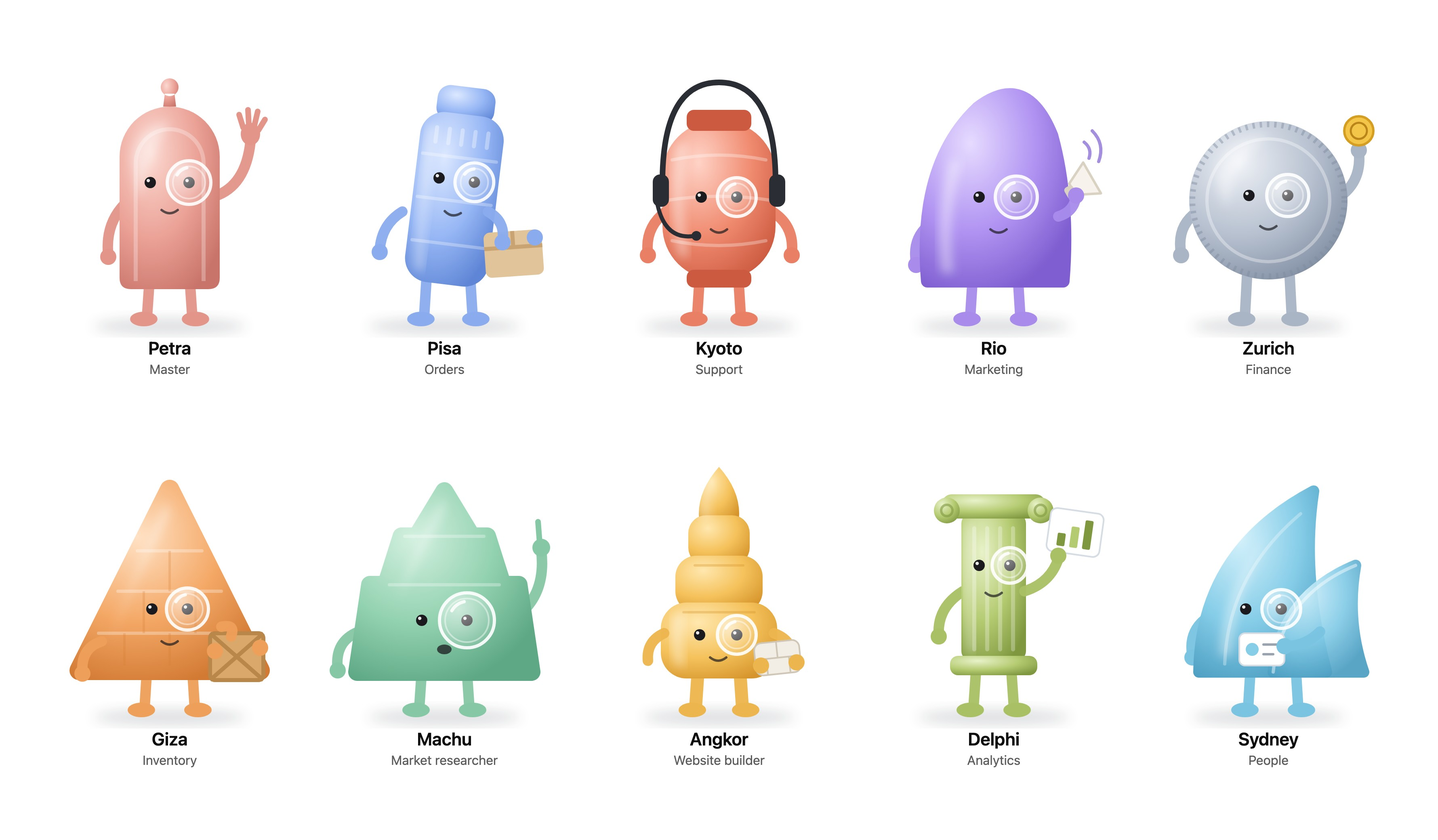
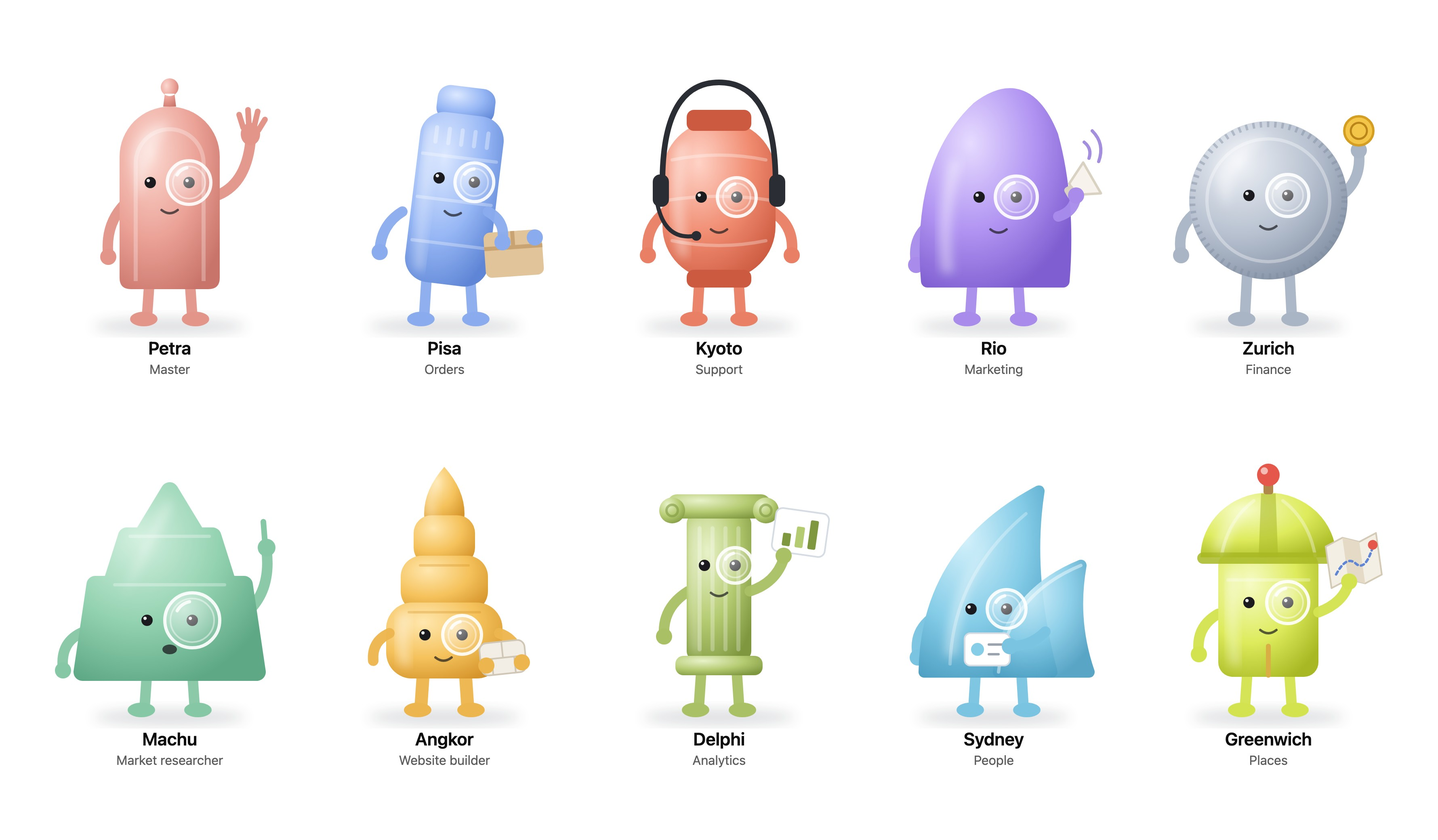
Add Greenwich, the places mascot
Greenwich keeps the business on Google Maps and the other maps.
Its body is the Royal Observatory dome with a red time ball. It holds
a folded map. The colour is meridian lime. The lineup now has six
columns for eleven mascots.

diff --git a/index.html b/index.html
@@ -127,7 +127,7 @@ th:first-child,td:first-child{padding-left:20px}th:last-child,td:last-child{padd
 <a class="brand" href="#overview">tensquads design system</a>
 <div class="search"><svg viewBox="0 0 18 18" width="18" height="18" aria-hidden="true" fill="none" stroke="currentColor" stroke-width="1.4" stroke-linecap="round" stroke-linejoin="round"><circle cx="8" cy="8" r="4.8"/><path d="m11.6 11.6 3.4 3.4"/></svg><input type="search" placeholder="Search" aria-label="Search the menu" autocomplete="off"></div>
 <nav aria-label="Design system">
-<ul class="main-nav"><li><a href="#overview" data-q="Overview"><svg viewBox="0 0 18 18" width="18" height="18" aria-hidden="true" fill="none" stroke="currentColor" stroke-width="1.4" stroke-linecap="round" stroke-linejoin="round"><path d="M2.5 3.5h4.5a2 2 0 0 1 2 2v8a1.5 1.5 0 0 0-1.5-1.5h-5zM15.5 3.5H11a2 2 0 0 0-2 2v8a1.5 1.5 0 0 1 1.5-1.5h5z"/></svg><span>Overview</span></a></li><li><a href="#colors" data-q="Colors"><svg viewBox="0 0 18 18" width="18" height="18" aria-hidden="true" fill="none" stroke="currentColor" stroke-width="1.4" stroke-linecap="round" stroke-linejoin="round"><path d="M9 2.5a6.5 6.5 0 1 0 0 13c1 0 1.5-.6 1.5-1.4 0-1.1-.9-1.4-.9-2.3 0-.8.6-1.3 1.4-1.3h1.6a2.9 2.9 0 0 0 2.9-2.9C15.5 4.9 12.6 2.5 9 2.5z"/><circle cx="5.8" cy="8" r=".9"/><circle cx="8" cy="5.5" r=".9"/><circle cx="11.2" cy="6.2" r=".9"/></svg><span>Colors</span><span class="n">265</span></a></li><li><a href="#typography" data-q="Typography"><svg viewBox="0 0 18 18" width="18" height="18" aria-hidden="true" fill="none" stroke="currentColor" stroke-width="1.4" stroke-linecap="round" stroke-linejoin="round"><path d="M2.5 6V4.5h7V6M6 4.5v9M10 9V8h5.5v1M12.75 8v5.5"/></svg><span>Typography</span><span class="n">33</span></a></li><li><a href="#spacing" data-q="Spacing"><svg viewBox="0 0 18 18" width="18" height="18" aria-hidden="true" fill="none" stroke="currentColor" stroke-width="1.4" stroke-linecap="round" stroke-linejoin="round"><path d="M2.5 9h13M5 6.5 2.5 9 5 11.5M13 6.5l2.5 2.5-2.5 2.5"/></svg><span>Spacing</span><span class="n">45</span></a></li><li><a href="#radius" data-q="Corner radius"><svg viewBox="0 0 18 18" width="18" height="18" aria-hidden="true" fill="none" stroke="currentColor" stroke-width="1.4" stroke-linecap="round" stroke-linejoin="round"><path d="M3 7V5a2 2 0 0 1 2-2h2M11 3h2a2 2 0 0 1 2 2v2M15 11v2a2 2 0 0 1-2 2h-2M7 15H5a2 2 0 0 1-2-2v-2"/></svg><span>Corner radius</span><span class="n">10</span></a></li><li><a href="#shadows" data-q="Shadows"><svg viewBox="0 0 18 18" width="18" height="18" aria-hidden="true" fill="none" stroke="currentColor" stroke-width="1.4" stroke-linecap="round" stroke-linejoin="round"><rect x="2.5" y="2.5" width="9.5" height="9.5" rx="2"/><path d="M12 6h1.5a2 2 0 0 1 2 2v5.5a2 2 0 0 1-2 2H8a2 2 0 0 1-2-2V12"/></svg><span>Shadows</span><span class="n">11</span></a></li><li><a href="#easing" data-q="Easing"><svg viewBox="0 0 18 18" width="18" height="18" aria-hidden="true" fill="none" stroke="currentColor" stroke-width="1.4" stroke-linecap="round" stroke-linejoin="round"><circle cx="9" cy="9" r="6.5"/><path d="M9 2.5a6.5 6.5 0 0 0 0 13"/></svg><span>Easing</span><span class="n">5</span></a></li><li><a href="#duration" data-q="Duration"><svg viewBox="0 0 18 18" width="18" height="18" aria-hidden="true" fill="none" stroke="currentColor" stroke-width="1.4" stroke-linecap="round" stroke-linejoin="round"><circle cx="9" cy="9.5" r="6"/><path d="M9 6.5v3l2 1.5M7 2h4"/></svg><span>Duration</span><span class="n">3</span></a></li><li><a href="#components" data-q="Components"><svg viewBox="0 0 18 18" width="18" height="18" aria-hidden="true" fill="none" stroke="currentColor" stroke-width="1.4" stroke-linecap="round" stroke-linejoin="round"><path d="M9 2.5 15 5.8v6.4L9 15.5 3 12.2V5.8zM3 5.8 9 9l6-3.2M9 9v6.5"/></svg><span>Components</span><span class="n">28</span></a><ul class="subnav"><li class="sub-h">Actions</li><li><a href="#components/Badge" data-q="Badge Actions">Badge</a></li><li><a href="#components/Button" data-q="Button Actions">Button</a></li><li><a href="#components/Chip" data-q="Chip Actions">Chip</a></li><li><a href="#components/SegmentedControl" data-q="SegmentedControl Actions">SegmentedControl</a></li><li class="sub-h">Forms</li><li><a href="#components/Input" data-q="Input Forms">Input</a></li><li><a href="#components/Switch" data-q="Switch Forms">Switch</a></li><li class="sub-h">Canvas</li><li><a href="#components/BranchNode" data-q="BranchNode Canvas">BranchNode</a></li><li><a href="#components/Canvas" data-q="Canvas Canvas">Canvas</a></li><li><a href="#components/MiniMap" data-q="MiniMap Canvas">MiniMap</a></li><li><a href="#components/Node" data-q="Node Canvas">Node</a></li><li class="sub-h">Panels</li><li><a href="#components/Inspector" data-q="Inspector Panels">Inspector</a></li><li><a href="#components/Palette" data-q="Palette Panels">Palette</a></li><li class="sub-h">Chrome</li><li><a href="#components/Chat" data-q="Chat Chrome">Chat</a></li><li><a href="#components/CommandPalette" data-q="CommandPalette Chrome">CommandPalette</a></li><li><a href="#components/Header" data-q="Header Chrome">Header</a></li><li><a href="#components/ThemeToggle" data-q="ThemeToggle Chrome">ThemeToggle</a></li><li><a href="#components/Toolbar" data-q="Toolbar Chrome">Toolbar</a></li><li class="sub-h">Data display</li><li><a href="#components/BarChart" data-q="BarChart Data display">BarChart</a></li><li><a href="#components/Bars" data-q="Bars Data display">Bars</a></li><li><a href="#components/Card" data-q="Card Data display">Card</a></li><li><a href="#components/DataTable" data-q="DataTable Data display">DataTable</a></li><li><a href="#components/Distribution" data-q="Distribution Data display">Distribution</a></li><li><a href="#components/EmptyState" data-q="EmptyState Data display">EmptyState</a></li><li><a href="#components/Menu" data-q="Menu Data display">Menu</a></li><li><a href="#components/PageHeader" data-q="PageHeader Data display">PageHeader</a></li><li><a href="#components/StatTile" data-q="StatTile Data display">StatTile</a></li><li><a href="#components/WorkflowCard" data-q="WorkflowCard Data display">WorkflowCard</a></li><li class="sub-h">Pages</li><li><a href="#components/Dashboard" data-q="Dashboard Pages">Dashboard</a></li></ul></li><li><a href="#mascots" data-q="Mascots"><svg viewBox="0 0 18 18" width="18" height="18" aria-hidden="true" fill="none" stroke="currentColor" stroke-width="1.4" stroke-linecap="round" stroke-linejoin="round"><rect x="2.5" y="2.5" width="13" height="13" rx="3"/><circle cx="7" cy="8" r="1"/><circle cx="11.5" cy="8" r="2"/><path d="M6.5 12c1.5 1 3.5 1 5 0"/></svg><span>Mascots</span><span class="n">10</span></a></li></ul>
+<ul class="main-nav"><li><a href="#overview" data-q="Overview"><svg viewBox="0 0 18 18" width="18" height="18" aria-hidden="true" fill="none" stroke="currentColor" stroke-width="1.4" stroke-linecap="round" stroke-linejoin="round"><path d="M2.5 3.5h4.5a2 2 0 0 1 2 2v8a1.5 1.5 0 0 0-1.5-1.5h-5zM15.5 3.5H11a2 2 0 0 0-2 2v8a1.5 1.5 0 0 1 1.5-1.5h5z"/></svg><span>Overview</span></a></li><li><a href="#colors" data-q="Colors"><svg viewBox="0 0 18 18" width="18" height="18" aria-hidden="true" fill="none" stroke="currentColor" stroke-width="1.4" stroke-linecap="round" stroke-linejoin="round"><path d="M9 2.5a6.5 6.5 0 1 0 0 13c1 0 1.5-.6 1.5-1.4 0-1.1-.9-1.4-.9-2.3 0-.8.6-1.3 1.4-1.3h1.6a2.9 2.9 0 0 0 2.9-2.9C15.5 4.9 12.6 2.5 9 2.5z"/><circle cx="5.8" cy="8" r=".9"/><circle cx="8" cy="5.5" r=".9"/><circle cx="11.2" cy="6.2" r=".9"/></svg><span>Colors</span><span class="n">265</span></a></li><li><a href="#typography" data-q="Typography"><svg viewBox="0 0 18 18" width="18" height="18" aria-hidden="true" fill="none" stroke="currentColor" stroke-width="1.4" stroke-linecap="round" stroke-linejoin="round"><path d="M2.5 6V4.5h7V6M6 4.5v9M10 9V8h5.5v1M12.75 8v5.5"/></svg><span>Typography</span><span class="n">33</span></a></li><li><a href="#spacing" data-q="Spacing"><svg viewBox="0 0 18 18" width="18" height="18" aria-hidden="true" fill="none" stroke="currentColor" stroke-width="1.4" stroke-linecap="round" stroke-linejoin="round"><path d="M2.5 9h13M5 6.5 2.5 9 5 11.5M13 6.5l2.5 2.5-2.5 2.5"/></svg><span>Spacing</span><span class="n">45</span></a></li><li><a href="#radius" data-q="Corner radius"><svg viewBox="0 0 18 18" width="18" height="18" aria-hidden="true" fill="none" stroke="currentColor" stroke-width="1.4" stroke-linecap="round" stroke-linejoin="round"><path d="M3 7V5a2 2 0 0 1 2-2h2M11 3h2a2 2 0 0 1 2 2v2M15 11v2a2 2 0 0 1-2 2h-2M7 15H5a2 2 0 0 1-2-2v-2"/></svg><span>Corner radius</span><span class="n">10</span></a></li><li><a href="#shadows" data-q="Shadows"><svg viewBox="0 0 18 18" width="18" height="18" aria-hidden="true" fill="none" stroke="currentColor" stroke-width="1.4" stroke-linecap="round" stroke-linejoin="round"><rect x="2.5" y="2.5" width="9.5" height="9.5" rx="2"/><path d="M12 6h1.5a2 2 0 0 1 2 2v5.5a2 2 0 0 1-2 2H8a2 2 0 0 1-2-2V12"/></svg><span>Shadows</span><span class="n">11</span></a></li><li><a href="#easing" data-q="Easing"><svg viewBox="0 0 18 18" width="18" height="18" aria-hidden="true" fill="none" stroke="currentColor" stroke-width="1.4" stroke-linecap="round" stroke-linejoin="round"><circle cx="9" cy="9" r="6.5"/><path d="M9 2.5a6.5 6.5 0 0 0 0 13"/></svg><span>Easing</span><span class="n">5</span></a></li><li><a href="#duration" data-q="Duration"><svg viewBox="0 0 18 18" width="18" height="18" aria-hidden="true" fill="none" stroke="currentColor" stroke-width="1.4" stroke-linecap="round" stroke-linejoin="round"><circle cx="9" cy="9.5" r="6"/><path d="M9 6.5v3l2 1.5M7 2h4"/></svg><span>Duration</span><span class="n">3</span></a></li><li><a href="#components" data-q="Components"><svg viewBox="0 0 18 18" width="18" height="18" aria-hidden="true" fill="none" stroke="currentColor" stroke-width="1.4" stroke-linecap="round" stroke-linejoin="round"><path d="M9 2.5 15 5.8v6.4L9 15.5 3 12.2V5.8zM3 5.8 9 9l6-3.2M9 9v6.5"/></svg><span>Components</span><span class="n">28</span></a><ul class="subnav"><li class="sub-h">Actions</li><li><a href="#components/Badge" data-q="Badge Actions">Badge</a></li><li><a href="#components/Button" data-q="Button Actions">Button</a></li><li><a href="#components/Chip" data-q="Chip Actions">Chip</a></li><li><a href="#components/SegmentedControl" data-q="SegmentedControl Actions">SegmentedControl</a></li><li class="sub-h">Forms</li><li><a href="#components/Input" data-q="Input Forms">Input</a></li><li><a href="#components/Switch" data-q="Switch Forms">Switch</a></li><li class="sub-h">Canvas</li><li><a href="#components/BranchNode" data-q="BranchNode Canvas">BranchNode</a></li><li><a href="#components/Canvas" data-q="Canvas Canvas">Canvas</a></li><li><a href="#components/MiniMap" data-q="MiniMap Canvas">MiniMap</a></li><li><a href="#components/Node" data-q="Node Canvas">Node</a></li><li class="sub-h">Panels</li><li><a href="#components/Inspector" data-q="Inspector Panels">Inspector</a></li><li><a href="#components/Palette" data-q="Palette Panels">Palette</a></li><li class="sub-h">Chrome</li><li><a href="#components/Chat" data-q="Chat Chrome">Chat</a></li><li><a href="#components/CommandPalette" data-q="CommandPalette Chrome">CommandPalette</a></li><li><a href="#components/Header" data-q="Header Chrome">Header</a></li><li><a href="#components/ThemeToggle" data-q="ThemeToggle Chrome">ThemeToggle</a></li><li><a href="#components/Toolbar" data-q="Toolbar Chrome">Toolbar</a></li><li class="sub-h">Data display</li><li><a href="#components/BarChart" data-q="BarChart Data display">BarChart</a></li><li><a href="#components/Bars" data-q="Bars Data display">Bars</a></li><li><a href="#components/Card" data-q="Card Data display">Card</a></li><li><a href="#components/DataTable" data-q="DataTable Data display">DataTable</a></li><li><a href="#components/Distribution" data-q="Distribution Data display">Distribution</a></li><li><a href="#components/EmptyState" data-q="EmptyState Data display">EmptyState</a></li><li><a href="#components/Menu" data-q="Menu Data display">Menu</a></li><li><a href="#components/PageHeader" data-q="PageHeader Data display">PageHeader</a></li><li><a href="#components/StatTile" data-q="StatTile Data display">StatTile</a></li><li><a href="#components/WorkflowCard" data-q="WorkflowCard Data display">WorkflowCard</a></li><li class="sub-h">Pages</li><li><a href="#components/Dashboard" data-q="Dashboard Pages">Dashboard</a></li></ul></li><li><a href="#mascots" data-q="Mascots"><svg viewBox="0 0 18 18" width="18" height="18" aria-hidden="true" fill="none" stroke="currentColor" stroke-width="1.4" stroke-linecap="round" stroke-linejoin="round"><rect x="2.5" y="2.5" width="13" height="13" rx="3"/><circle cx="7" cy="8" r="1"/><circle cx="11.5" cy="8" r="2"/><path d="M6.5 12c1.5 1 3.5 1 5 0"/></svg><span>Mascots</span><span class="n">11</span></a></li></ul>
 <p class="none">No match.</p>
 <hr>
 <ul><li><a href="https://github.com/moeghashim/tensquads-design-system"><svg viewBox="0 0 18 18" width="18" height="18" aria-hidden="true" fill="none" stroke="currentColor" stroke-width="1.4" stroke-linecap="round" stroke-linejoin="round"><path d="M2.5 5.5a1.5 1.5 0 0 1 1.5-1.5h3.2l1.6 1.8H14a1.5 1.5 0 0 1 1.5 1.5v6.2A1.5 1.5 0 0 1 14 15H4a1.5 1.5 0 0 1-1.5-1.5z"/></svg><span>Source files</span></a></li></ul>
@@ -137,8 +137,8 @@ th:first-child,td:first-child{padding-left:20px}th:last-child,td:last-child{padd
 <main>
 <div class="sheet">
 <section class="view" data-view="overview" data-title="Overview" aria-labelledby="h-overview">
-<header class="vhead"><div><h1 id="h-overview" tabindex="-1">Overview</h1><p class="sub">The reference for how tensquads looks. It holds Agent-UI, the visual language of the app, and the ten squad mascots. Agent-UI tokens version 1.</p></div></header>
-<div class="stats"><a class="stat" href="#colors"><svg viewBox="0 0 18 18" width="18" height="18" aria-hidden="true" fill="none" stroke="currentColor" stroke-width="1.4" stroke-linecap="round" stroke-linejoin="round"><path d="M9 2.5a6.5 6.5 0 1 0 0 13c1 0 1.5-.6 1.5-1.4 0-1.1-.9-1.4-.9-2.3 0-.8.6-1.3 1.4-1.3h1.6a2.9 2.9 0 0 0 2.9-2.9C15.5 4.9 12.6 2.5 9 2.5z"/><circle cx="5.8" cy="8" r=".9"/><circle cx="8" cy="5.5" r=".9"/><circle cx="11.2" cy="6.2" r=".9"/></svg><b>265</b><span>Colors</span></a><a class="stat" href="#typography"><svg viewBox="0 0 18 18" width="18" height="18" aria-hidden="true" fill="none" stroke="currentColor" stroke-width="1.4" stroke-linecap="round" stroke-linejoin="round"><path d="M2.5 6V4.5h7V6M6 4.5v9M10 9V8h5.5v1M12.75 8v5.5"/></svg><b>33</b><span>Typography</span></a><a class="stat" href="#spacing"><svg viewBox="0 0 18 18" width="18" height="18" aria-hidden="true" fill="none" stroke="currentColor" stroke-width="1.4" stroke-linecap="round" stroke-linejoin="round"><path d="M2.5 9h13M5 6.5 2.5 9 5 11.5M13 6.5l2.5 2.5-2.5 2.5"/></svg><b>45</b><span>Spacing</span></a><a class="stat" href="#radius"><svg viewBox="0 0 18 18" width="18" height="18" aria-hidden="true" fill="none" stroke="currentColor" stroke-width="1.4" stroke-linecap="round" stroke-linejoin="round"><path d="M3 7V5a2 2 0 0 1 2-2h2M11 3h2a2 2 0 0 1 2 2v2M15 11v2a2 2 0 0 1-2 2h-2M7 15H5a2 2 0 0 1-2-2v-2"/></svg><b>10</b><span>Corner radius</span></a><a class="stat" href="#shadows"><svg viewBox="0 0 18 18" width="18" height="18" aria-hidden="true" fill="none" stroke="currentColor" stroke-width="1.4" stroke-linecap="round" stroke-linejoin="round"><rect x="2.5" y="2.5" width="9.5" height="9.5" rx="2"/><path d="M12 6h1.5a2 2 0 0 1 2 2v5.5a2 2 0 0 1-2 2H8a2 2 0 0 1-2-2V12"/></svg><b>11</b><span>Shadows</span></a><a class="stat" href="#easing"><svg viewBox="0 0 18 18" width="18" height="18" aria-hidden="true" fill="none" stroke="currentColor" stroke-width="1.4" stroke-linecap="round" stroke-linejoin="round"><circle cx="9" cy="9" r="6.5"/><path d="M9 2.5a6.5 6.5 0 0 0 0 13"/></svg><b>5</b><span>Easing</span></a><a class="stat" href="#duration"><svg viewBox="0 0 18 18" width="18" height="18" aria-hidden="true" fill="none" stroke="currentColor" stroke-width="1.4" stroke-linecap="round" stroke-linejoin="round"><circle cx="9" cy="9.5" r="6"/><path d="M9 6.5v3l2 1.5M7 2h4"/></svg><b>3</b><span>Duration</span></a><a class="stat" href="#components"><svg viewBox="0 0 18 18" width="18" height="18" aria-hidden="true" fill="none" stroke="currentColor" stroke-width="1.4" stroke-linecap="round" stroke-linejoin="round"><path d="M9 2.5 15 5.8v6.4L9 15.5 3 12.2V5.8zM3 5.8 9 9l6-3.2M9 9v6.5"/></svg><b>28</b><span>Components</span></a><a class="stat" href="#mascots"><svg viewBox="0 0 18 18" width="18" height="18" aria-hidden="true" fill="none" stroke="currentColor" stroke-width="1.4" stroke-linecap="round" stroke-linejoin="round"><rect x="2.5" y="2.5" width="13" height="13" rx="3"/><circle cx="7" cy="8" r="1"/><circle cx="11.5" cy="8" r="2"/><path d="M6.5 12c1.5 1 3.5 1 5 0"/></svg><b>10</b><span>Mascots</span></a></div><div class="prose"><p>Agent-UI is the visual language for a node-based agent builder: a quiet neutral chrome, one near-black primary, and six soft tints that tell node families apart. The interface stays out of the way so the graph reads; colour appears only where it carries meaning.</p>
+<header class="vhead"><div><h1 id="h-overview" tabindex="-1">Overview</h1><p class="sub">The reference for how tensquads looks. It holds Agent-UI, the visual language of the app, and the eleven squad mascots. Agent-UI tokens version 1.</p></div></header>
+<div class="stats"><a class="stat" href="#colors"><svg viewBox="0 0 18 18" width="18" height="18" aria-hidden="true" fill="none" stroke="currentColor" stroke-width="1.4" stroke-linecap="round" stroke-linejoin="round"><path d="M9 2.5a6.5 6.5 0 1 0 0 13c1 0 1.5-.6 1.5-1.4 0-1.1-.9-1.4-.9-2.3 0-.8.6-1.3 1.4-1.3h1.6a2.9 2.9 0 0 0 2.9-2.9C15.5 4.9 12.6 2.5 9 2.5z"/><circle cx="5.8" cy="8" r=".9"/><circle cx="8" cy="5.5" r=".9"/><circle cx="11.2" cy="6.2" r=".9"/></svg><b>265</b><span>Colors</span></a><a class="stat" href="#typography"><svg viewBox="0 0 18 18" width="18" height="18" aria-hidden="true" fill="none" stroke="currentColor" stroke-width="1.4" stroke-linecap="round" stroke-linejoin="round"><path d="M2.5 6V4.5h7V6M6 4.5v9M10 9V8h5.5v1M12.75 8v5.5"/></svg><b>33</b><span>Typography</span></a><a class="stat" href="#spacing"><svg viewBox="0 0 18 18" width="18" height="18" aria-hidden="true" fill="none" stroke="currentColor" stroke-width="1.4" stroke-linecap="round" stroke-linejoin="round"><path d="M2.5 9h13M5 6.5 2.5 9 5 11.5M13 6.5l2.5 2.5-2.5 2.5"/></svg><b>45</b><span>Spacing</span></a><a class="stat" href="#radius"><svg viewBox="0 0 18 18" width="18" height="18" aria-hidden="true" fill="none" stroke="currentColor" stroke-width="1.4" stroke-linecap="round" stroke-linejoin="round"><path d="M3 7V5a2 2 0 0 1 2-2h2M11 3h2a2 2 0 0 1 2 2v2M15 11v2a2 2 0 0 1-2 2h-2M7 15H5a2 2 0 0 1-2-2v-2"/></svg><b>10</b><span>Corner radius</span></a><a class="stat" href="#shadows"><svg viewBox="0 0 18 18" width="18" height="18" aria-hidden="true" fill="none" stroke="currentColor" stroke-width="1.4" stroke-linecap="round" stroke-linejoin="round"><rect x="2.5" y="2.5" width="9.5" height="9.5" rx="2"/><path d="M12 6h1.5a2 2 0 0 1 2 2v5.5a2 2 0 0 1-2 2H8a2 2 0 0 1-2-2V12"/></svg><b>11</b><span>Shadows</span></a><a class="stat" href="#easing"><svg viewBox="0 0 18 18" width="18" height="18" aria-hidden="true" fill="none" stroke="currentColor" stroke-width="1.4" stroke-linecap="round" stroke-linejoin="round"><circle cx="9" cy="9" r="6.5"/><path d="M9 2.5a6.5 6.5 0 0 0 0 13"/></svg><b>5</b><span>Easing</span></a><a class="stat" href="#duration"><svg viewBox="0 0 18 18" width="18" height="18" aria-hidden="true" fill="none" stroke="currentColor" stroke-width="1.4" stroke-linecap="round" stroke-linejoin="round"><circle cx="9" cy="9.5" r="6"/><path d="M9 6.5v3l2 1.5M7 2h4"/></svg><b>3</b><span>Duration</span></a><a class="stat" href="#components"><svg viewBox="0 0 18 18" width="18" height="18" aria-hidden="true" fill="none" stroke="currentColor" stroke-width="1.4" stroke-linecap="round" stroke-linejoin="round"><path d="M9 2.5 15 5.8v6.4L9 15.5 3 12.2V5.8zM3 5.8 9 9l6-3.2M9 9v6.5"/></svg><b>28</b><span>Components</span></a><a class="stat" href="#mascots"><svg viewBox="0 0 18 18" width="18" height="18" aria-hidden="true" fill="none" stroke="currentColor" stroke-width="1.4" stroke-linecap="round" stroke-linejoin="round"><rect x="2.5" y="2.5" width="13" height="13" rx="3"/><circle cx="7" cy="8" r="1"/><circle cx="11.5" cy="8" r="2"/><path d="M6.5 12c1.5 1 3.5 1 5 0"/></svg><b>11</b><span>Mascots</span></a></div><div class="prose"><p>Agent-UI is the visual language for a node-based agent builder: a quiet neutral chrome, one near-black primary, and six soft tints that tell node families apart. The interface stays out of the way so the graph reads; colour appears only where it carries meaning.</p>
 <h2>Principles</h2>
 <ul><li><strong>Neutral first.</strong> Every surface is a grey; hue is reserved for node families and status. The primary action is near-black (<code>primary-solid</code>), never blue.</li><li><strong>Layers by lightness, not by lines.</strong> Panels float on the canvas as slightly lighter cards with a 0.5px <code>panel-border</code>; nodes are white with a 1px ring (<code>shadow-node</code>). Borders are hairlines from the <code>alpha-*</code> ink scale, never solid grey lines.</li><li><strong>Soft, then quiet.</strong> Fills are 8% ink (<code>input-bg</code>, <code>primary-soft</code>); hovers step to 12%, presses to 16%. Nothing glows.</li><li><strong>Round where you hold it.</strong> Panels and node cards use <code>radius-2xl</code> (16px); tiles, inputs and rows <code>radius-md</code> (8px); anything in the header or floating over the canvas is a pill (<code>radius-full</code>).</li></ul>
 <h2>Content</h2>
@@ -623,7 +623,30 @@ th:first-child,td:first-child{padding-left:20px}th:last-child,td:last-child{padd
 <div class="mcard-row"><div class="mcard-label">Shape</div><div class="mcard-text">Two shell sails, like the roof of the Sydney Opera House.</div></div>
 <div class="mcard-row"><div class="mcard-label">Why it fits</div><div class="mcard-text">Sydney welcomes new people. It hires and runs onboarding.</div></div>
 <div class="mcard-pair"><div class="mcard-row"><div class="mcard-label">Pose</div><div class="mcard-text">Shows a name badge.</div></div><div class="mcard-row"><div class="mcard-label">Colour</div><div class="mcard-text">Harbour cyan</div></div></div>
-</article></div><p class="dl"><a href="https://raw.githubusercontent.com/moeghashim/tensquads-design-system/main/mascots/svg/sydney.svg">SVG</a><a href="https://raw.githubusercontent.com/moeghashim/tensquads-design-system/main/mascots/png/sydney.png">PNG</a><a href="https://raw.githubusercontent.com/moeghashim/tensquads-design-system/main/mascots/jpeg/sydney.jpg">JPEG</a><a href="https://raw.githubusercontent.com/moeghashim/tensquads-design-system/main/mascots/cards/png/sydney.png">Card PNG</a><a href="https://raw.githubusercontent.com/moeghashim/tensquads-design-system/main/mascots/cards/jpeg/sydney.jpg">Card JPEG</a></p></div></div>
+</article></div><p class="dl"><a href="https://raw.githubusercontent.com/moeghashim/tensquads-design-system/main/mascots/svg/sydney.svg">SVG</a><a href="https://raw.githubusercontent.com/moeghashim/tensquads-design-system/main/mascots/png/sydney.png">PNG</a><a href="https://raw.githubusercontent.com/moeghashim/tensquads-design-system/main/mascots/jpeg/sydney.jpg">JPEG</a><a href="https://raw.githubusercontent.com/moeghashim/tensquads-design-system/main/mascots/cards/png/sydney.png">Card PNG</a><a href="https://raw.githubusercontent.com/moeghashim/tensquads-design-system/main/mascots/cards/jpeg/sydney.jpg">Card JPEG</a></p></div>
+<div class="mc"><div class="mcard-wrap"><article class="mcard" aria-label="Greenwich mascot card">
+<div class="mcard-art"><svg viewBox="0 0 300 370" role="img" aria-label="Greenwich, the places mascot"><defs><radialGradient id="pplacesb" cx="32%" cy="26%" r="85%"><stop offset="0" stop-color="#F6FBC4"/><stop offset=".55" stop-color="#DDEB5C"/><stop offset="1" stop-color="#A8B824"/></radialGradient><radialGradient id="pplacesl" cx="35%" cy="30%" r="75%"><stop offset="0" stop-color="#fff" stop-opacity=".55"/><stop offset="1" stop-color="#fff" stop-opacity=".08"/></radialGradient><filter id="pplacesf" x="-20%" y="-20%" width="140%" height="140%"><feGaussianBlur stdDeviation="6"/></filter><filter id="pplacess" x="-50%" y="-50%" width="200%" height="200%"><feGaussianBlur stdDeviation="8"/></filter></defs><ellipse cx="150" cy="356" rx="95" ry="10" fill="#1B2430" opacity=".14" filter="url(#pplacess)"/><path d="M124 300 L121 344" fill="none" stroke="#D3E350" stroke-width="13" stroke-linecap="round" stroke-linejoin="round" opacity=".96"/><path d="M176 300 L179 344" fill="none" stroke="#D3E350" stroke-width="13" stroke-linecap="round" stroke-linejoin="round" opacity=".96"/><ellipse cx="117" cy="347" rx="17" ry="9" fill="#D3E350"/><ellipse cx="183" cy="347" rx="17" ry="9" fill="#D3E350"/>
+<path d="M88 228 Q60 244 64 276" fill="none" stroke="#D3E350" stroke-width="13" stroke-linecap="round" stroke-linejoin="round" opacity=".96"/><circle cx="64" cy="278" r="10" fill="#D3E350"/>
+<rect x="88" y="150" width="124" height="156" rx="18" fill="url(#pplacesb)"/>
+<path d="M100 186 L200 186" fill="none" stroke="#fff" stroke-opacity=".3" stroke-width="4" stroke-linecap="round" stroke-linejoin="round"/>
+<path d="M66 158 A84 80 0 0 1 234 158 Z" fill="url(#pplacesb)"/>
+<path d="M92 156 Q100 112 132 88 M208 156 Q200 112 168 88" fill="none" stroke="#fff" stroke-opacity=".35" stroke-width="4" stroke-linecap="round"/>
+<path d="M141 79 L159 79 L162 158 L138 158 Z" fill="#A8B824" opacity=".55"/>
+<rect x="62" y="152" width="176" height="14" rx="7" fill="#A8B824" opacity=".85"/>
+<rect x="144" y="64" width="12" height="16" rx="3" fill="#B0894A"/>
+<circle cx="150" cy="56" r="14" fill="#E5574A"/><circle cx="145" cy="51" r="4.5" fill="#fff" opacity=".6"/>
+<path d="M150 268 L150 304" stroke="#D9AE45" stroke-width="6" stroke-linecap="round"/>
+<path d="M82 150 A72 70 0 0 1 128 94 Q104 120 98 150 Z" fill="#fff" opacity=".42" filter="url(#pplacesf)"/><path d="M100 176 Q96 236 104 292 L114 292 Q108 236 112 176 Z" fill="#fff" opacity=".42" filter="url(#pplacesf)"/>
+<circle cx="126" cy="214" r="7" fill="#1B1B1F"/><circle cx="123.55" cy="211.55" r="2.1" fill="#fff" opacity=".9"/><circle cx="174" cy="214" r="7" fill="#1B1B1F"/><circle cx="171.55" cy="211.55" r="2.1" fill="#fff" opacity=".9"/><circle cx="174" cy="214" r="26" fill="url(#pplacesl)" stroke="#fff" stroke-opacity=".9" stroke-width="4"/><circle cx="174" cy="214" r="19" fill="none" stroke="#fff" stroke-opacity=".45" stroke-width="2"/><path d="M159.7 204.9 A18.2 18.2 0 0 1 171.4 196.32" fill="none" stroke="#fff" stroke-width="4" stroke-linecap="round" opacity=".85"/><path d="M140 248 Q150 256 160 248" fill="none" stroke="#1B1B1F" stroke-width="3" stroke-linecap="round" opacity=".7"/>
+<path d="M212 226 Q244 214 250 188" fill="none" stroke="#D3E350" stroke-width="13" stroke-linecap="round" stroke-linejoin="round" opacity=".96"/>
+<g transform="rotate(-8 256 164)"><path d="M224 140 L246 132 L266 140 L288 132 L288 184 L266 192 L246 184 L224 192 Z" fill="#F4EFE4" stroke="#D3C9B5" stroke-width="2" stroke-linejoin="round"/><path d="M246 132 L246 184 L266 192 L266 140 Z" fill="#E4DAC6"/><path d="M232 176 Q248 154 258 166 T282 148" fill="none" stroke="#5F86D6" stroke-width="3" stroke-dasharray="4 4" stroke-linecap="round"/><circle cx="282" cy="146" r="6" fill="#E5574A"/></g>
+<circle cx="250" cy="188" r="10" fill="#D3E350"/></svg></div>
+<div class="mcard-head"><div><h3 class="mcard-name">Greenwich</h3><div class="mcard-role">Places</div></div>
+<div class="mcard-sw" aria-hidden="true"><span style="background:#F6FBC4"></span><span style="background:#DDEB5C"></span><span style="background:#A8B824"></span></div></div>
+<div class="mcard-row"><div class="mcard-label">Shape</div><div class="mcard-text">An observatory dome with an open shutter slit and a red time ball on top, like the Royal Observatory at Greenwich.</div></div>
+<div class="mcard-row"><div class="mcard-label">Why it fits</div><div class="mcard-text">Every map starts at the meridian in Greenwich. Greenwich keeps the business on Google Maps and the other maps, correct and easy to find.</div></div>
+<div class="mcard-pair"><div class="mcard-row"><div class="mcard-label">Pose</div><div class="mcard-text">Holds up a folded map.</div></div><div class="mcard-row"><div class="mcard-label">Colour</div><div class="mcard-text">Meridian lime</div></div></div>
+</article></div><p class="dl"><a href="https://raw.githubusercontent.com/moeghashim/tensquads-design-system/main/mascots/svg/greenwich.svg">SVG</a><a href="https://raw.githubusercontent.com/moeghashim/tensquads-design-system/main/mascots/png/greenwich.png">PNG</a><a href="https://raw.githubusercontent.com/moeghashim/tensquads-design-system/main/mascots/jpeg/greenwich.jpg">JPEG</a><a href="https://raw.githubusercontent.com/moeghashim/tensquads-design-system/main/mascots/cards/png/greenwich.png">Card PNG</a><a href="https://raw.githubusercontent.com/moeghashim/tensquads-design-system/main/mascots/cards/jpeg/greenwich.jpg">Card JPEG</a></p></div></div>
 </section>
 </div>
 </main>

diff --git a/README.md b/README.md
@@ -2,7 +2,7 @@
 
 This repository is the reference for how tensquads looks. It is shown as a page at <https://10squads.com/design>. The same page is `index.html` here.
 
-![The ten squad mascots](mascots/lineup.png)
+![The eleven squad mascots](mascots/lineup.png)
 
 ## Contents
 
@@ -13,7 +13,7 @@ This repository is the reference for how tensquads looks. It is shown as a page 
 | `mascots/png/` | One PNG for each agent, 1200 × 1480 px, with a clear background. |
 | `mascots/jpeg/` | One JPEG for each agent, 1200 × 1480 px, with a white background. |
 | `mascots/cards/png/`, `mascots/cards/jpeg/` | One card for each agent, 1200 px wide: the mascot, name, role, palette, shape, reason, pose and colour. |
-| `mascots/lineup.png`, `mascots/lineup.jpg` | All ten mascots in one image. |
+| `mascots/lineup.png`, `mascots/lineup.jpg` | All eleven mascots in one image. |
 | `mascots/mascots.json` | The name, role, palette, shape, reason and pose of each mascot, with its file paths. |
 | `agent-ui/README.md` | Agent-UI, the visual language of the app: principles, content, colour, type, spacing, focus, themes, chat, icons and layout. |
 | `agent-ui/data-display.md` | The rules for dashboards and charts. |
@@ -45,6 +45,7 @@ Each agent has one frosted toy. Each body takes its shape from the place the age
 | Angkor | Website builder | Angkor Wat, Cambodia | Tower of tiers with a lotus-bud tip | Carries a building block | Temple amber |
 | Delphi | Analytics | Delphi, Greece | Fluted column with a scroll capital | Holds up a chart | Laurel olive |
 | Sydney | People | Sydney, Australia | Two shell sails, like the Opera House | Shows a name badge | Harbour cyan |
+| Greenwich | Places | Greenwich, London | Observatory dome with a shutter slit and a red time ball | Holds up a folded map | Meridian lime |
 
 The exact colours are in `mascots/mascots.json`.
 
